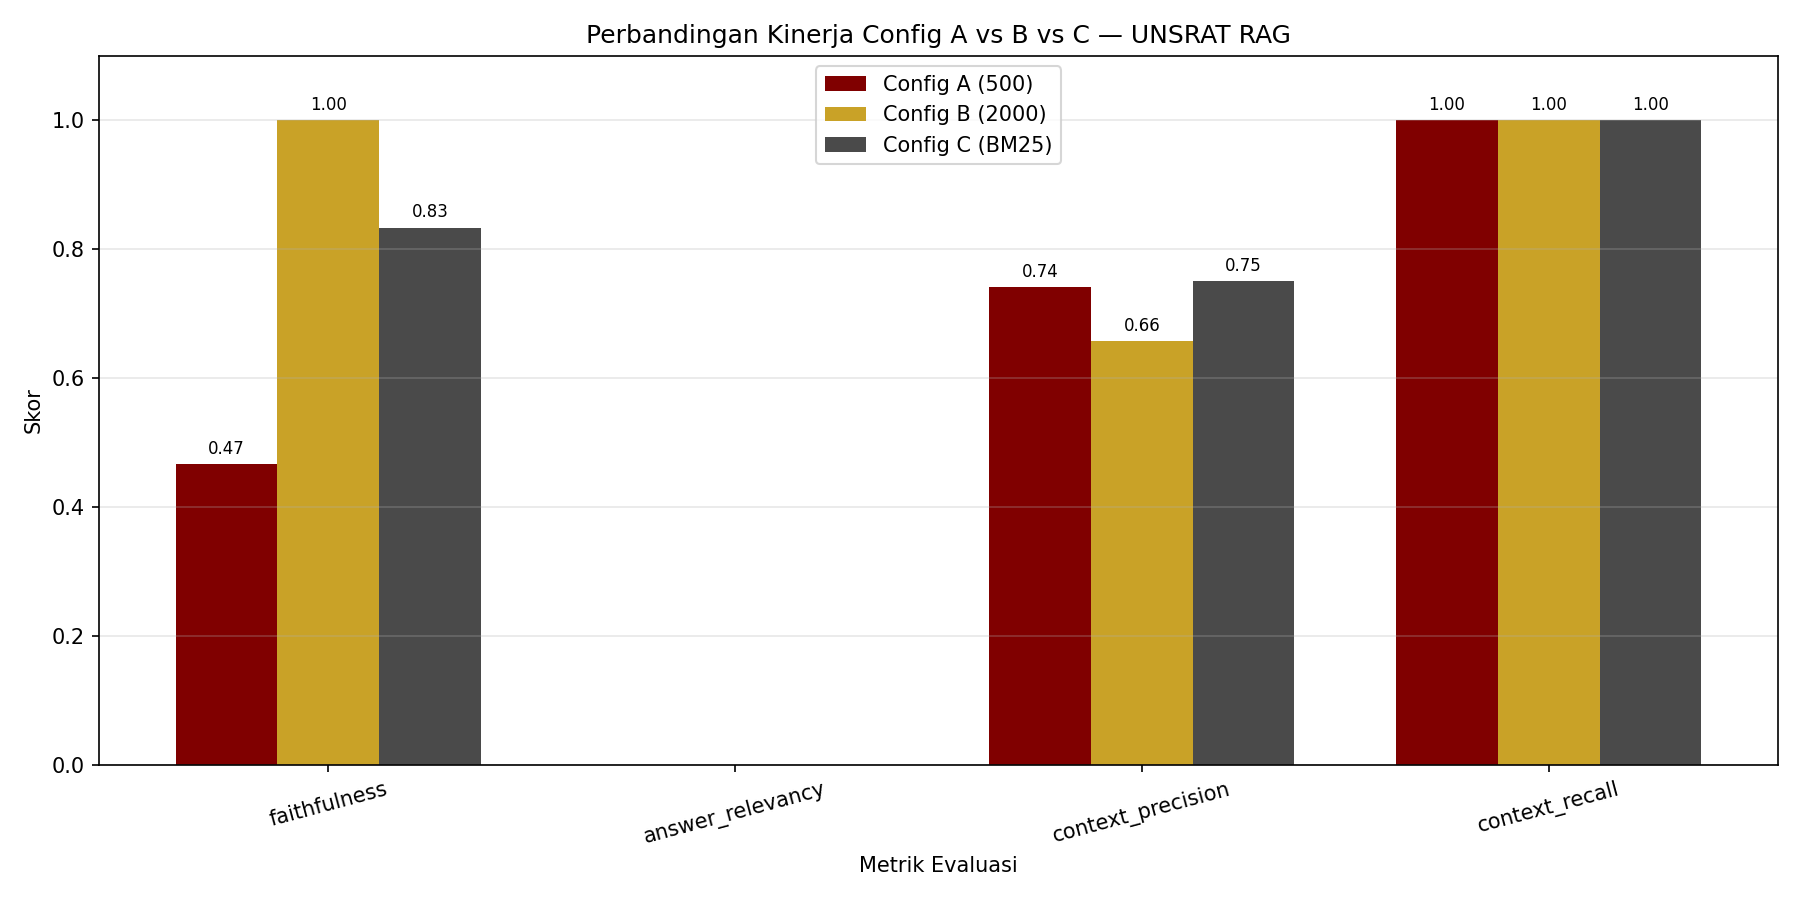
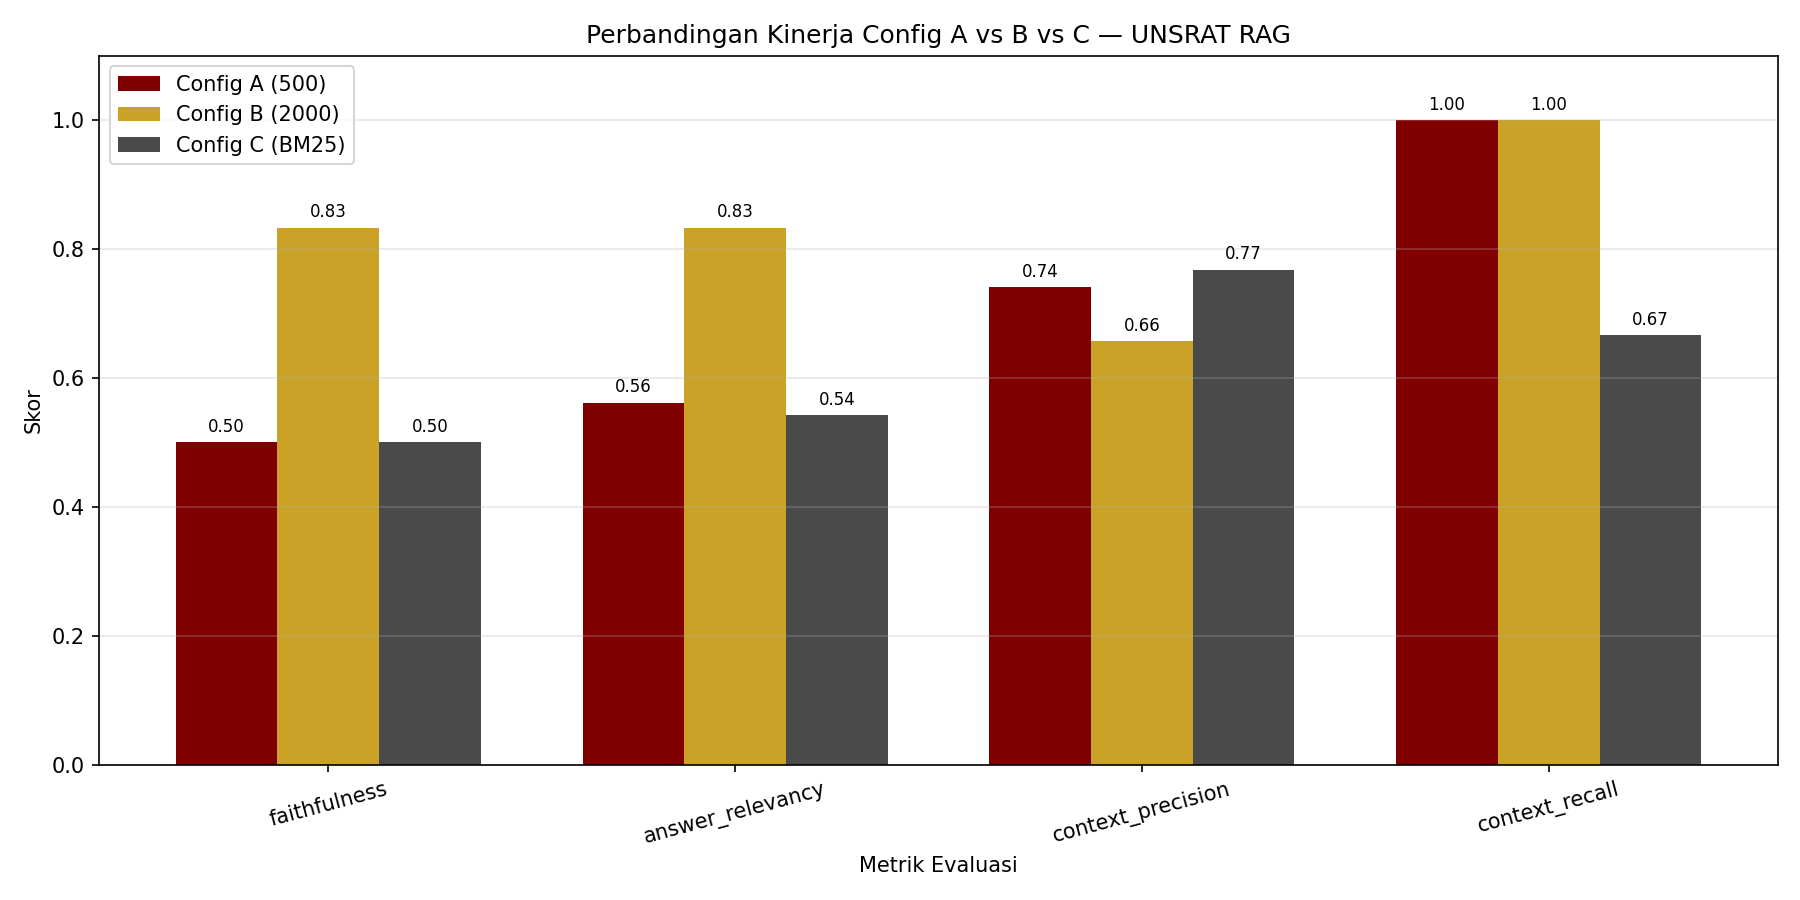
feat: perbarui hasil Ragas dengan metrik answer_relevancy lengkap via Gemini embeddings

diff --git a/evaluation.py b/evaluation.py
@@ -140,12 +140,11 @@ def run_evaluation(config: str, extra_metrics: list[str] | None = None) -> None:
             temperature=0.0,
             max_tokens=1024,
         ))
-        logger.info("Menggunakan NVIDIA NIM (nvidia/nv-embedqa-e5-v5) sebagai evaluator embeddings.")
-        from langchain_openai import OpenAIEmbeddings
-        evaluator_embeddings = LangchainEmbeddingsWrapper(OpenAIEmbeddings(
-            model="nvidia/nv-embedqa-e5-v5",
-            api_key=nvidia_api_key,
-            openai_api_base="https://integrate.api.nvidia.com/v1",
+        logger.info("Menggunakan Google Gemini (models/gemini-embedding-001) sebagai evaluator embeddings untuk menghindari error 500 NIM.")
+        from langchain_google_genai import GoogleGenerativeAIEmbeddings
+        evaluator_embeddings = LangchainEmbeddingsWrapper(GoogleGenerativeAIEmbeddings(
+            model=EMBEDDING_MODEL_NAME,
+            google_api_key=GOOGLE_API_KEY,
         ))
     else:
         logger.info(f"NVIDIA_NIM_API_KEY tidak ditemukan. Menggunakan Google Gemini ({EVALUATOR_MODEL_NAME}) sebagai evaluator.")

diff --git a/src/config.py b/src/config.py
@@ -33,9 +33,9 @@ CHROMA_DISTANCE_FN  = "cosine"
 
 # ── MODEL ───────────────────────────────────────────────────
 # Generator dan evaluator HARUS BERBEDA (D-16 — mitigasi self-eval bias)
-LLM_MODEL_NAME       = "qwen3.5-397b-a17b"
+LLM_MODEL_NAME       = "llama-3.1-8b-instruct"
 EMBEDDING_MODEL_NAME = "models/gemini-embedding-001"
-EVALUATOR_MODEL_NAME = "llama-3.1-70b-instruct"
+EVALUATOR_MODEL_NAME = "llama-3.1-8b-instruct"
 
 # Daftar model yang bisa dipilih di UI sidebar
 # Catatan: model NVIDIA NIM menggunakan provider "openai_compatible" (lihat Section 18)
@@ -48,7 +48,6 @@ AVAILABLE_MODELS: list[str] = [
     "gemini-2.5-flash",
     "gemini-2.5-flash-lite",
     "llama-3.1-8b-instruct",
-    "llama-3.1-70b-instruct",
 ]
 
 # ── CHUNKING — CONFIG A ──────────────────────────────────────
